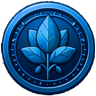
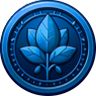
change money assets

diff --git a/apps/client/src/components/menus/PlantsMenu/markup.ts b/apps/client/src/components/menus/PlantsMenu/markup.ts
@@ -23,7 +23,7 @@ export const markup = (
           ? `<p class="plants-menu__value">
               <img 
                 class="plants-menu__stat-icon" 
-                src="./assets/utils/coin.png" 
+                src="./assets/utils/money.png" 
                 alt="coin"
               >
               ${coins}
@@ -47,7 +47,7 @@ export const markup = (
           ? `<p class="plants-menu__value">
               <img 
                 class="plants-menu__stat-icon" 
-                src="./assets/utils/profit-coins.svg" 
+                src="./assets/utils/money-profit.png" 
                 alt="coin"
               >
               ~${coinsIncome}

diff --git a/apps/client/src/components/bars/BalanceBar/BalanceBar.ts b/apps/client/src/components/bars/BalanceBar/BalanceBar.ts
@@ -52,7 +52,7 @@ export default class BalanceBar extends LitElement {
         <img class="icon" src="./assets/utils/experience.png" alt="xp" />
       </div>
       <div class="item">
-        <img class="icon" src="./assets/utils/coin.png" alt="coin" />
+        <img class="icon" src="./assets/utils/money.png" alt="coin" />
         <span class="value">${this.coins}</span>
       </div>
       <div class="item">

diff --git a/apps/client/src/components/bars/PickedPlantBar/markup.ts b/apps/client/src/components/bars/PickedPlantBar/markup.ts
@@ -13,7 +13,7 @@ export const markup = (
       coins > 0
         ? `<p class="picked-plant-bar__value">
             <img class="picked-plant-bar__icon" 
-              src="./assets/utils/coin.png" 
+              src="./assets/utils/money.png" 
               alt="coin"
             >
             ${coins}
